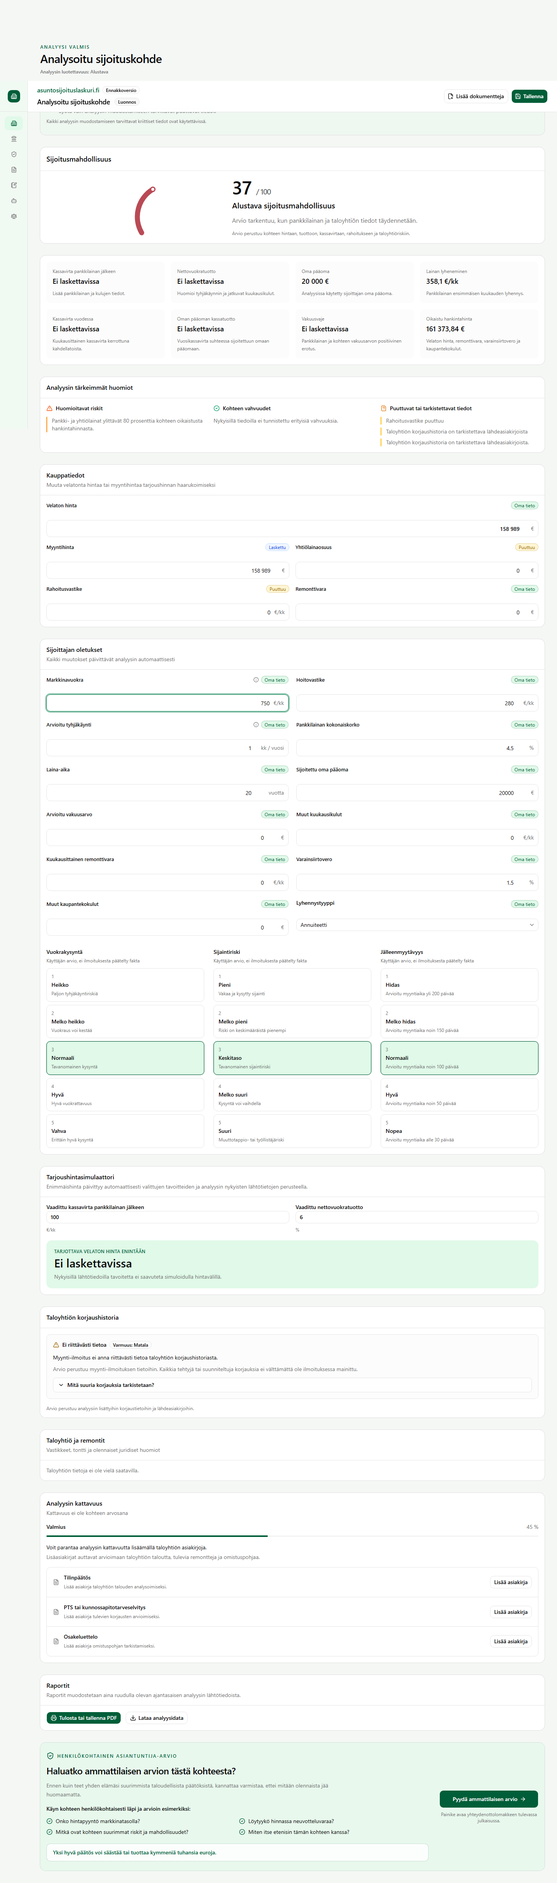
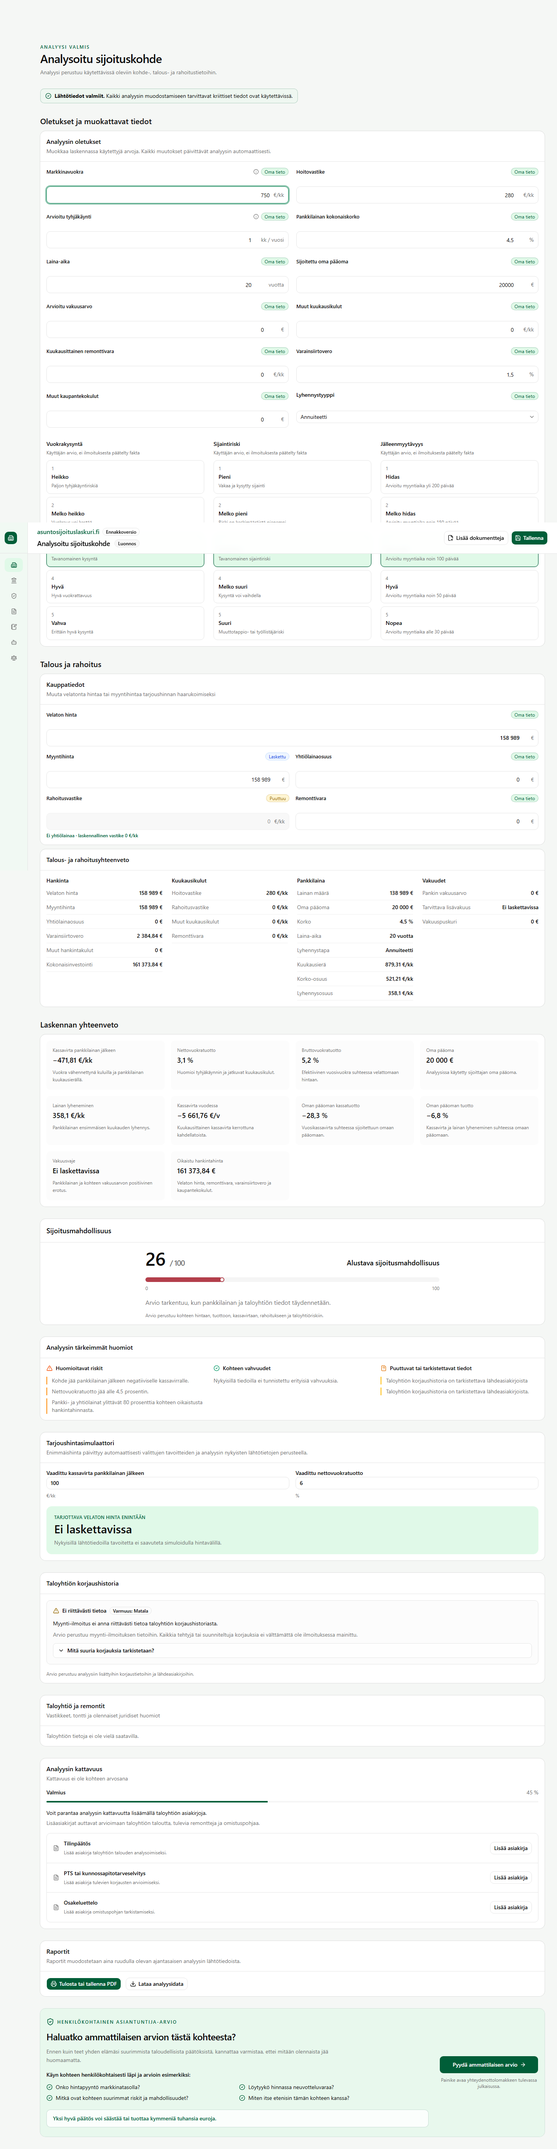
Reorder analysis flow and replace score gauge
- Linked the header logo to the application home page
- Moved assumptions and financial inputs before the investment score
- Added a calculation summary before the final assessment
- Prevented final scores from appearing with missing critical inputs
- Replaced the arc gauge with a compact horizontal score bar
- Removed duplicate property information from the analysis header
- Simplified the completed input status presentation
- Corrected preliminary and completed analysis headings
- Added responsive and regression tests for the revised flow

diff --git a/src/components/property/property-workspace.tsx b/src/components/property/property-workspace.tsx
@@ -18,6 +18,7 @@ import { AssumptionsCard, type AssumptionValues } from "./assumptions-card";
 import { DecisionSummaryCard } from "./decision-summary-card";
 import { HousingCompanyCard } from "./details-cards";
 import { ImportSourceReview } from "./import-source-review";
+import { FinancialOverviewCard } from "./financial-overview-card";
 import { InvestmentOverallScore } from "./investment-overall-score";
 import { OfferPriceCard } from "./offer-price-card";
 import { ParserAnalysisSummary } from "./parser-analysis-summary";
@@ -46,8 +47,7 @@ export function PropertyWorkspace({ importedData = {}, title, onRequestEvaluatio
   const presentationData = { ...data, listingTitle: data.listingTitle ?? (title && title !== "Uusi kohde" ? title : undefined) };
   const pageTitle = analysisTitle(presentationData);
   const facts = analysisFacts(presentationData);
-  const reliability = data.analysisReliability === "high" ? "Korkea" : data.analysisReliability === "moderate" ? "Kohtalainen" : "Alustava";
-  const missingCriticalFields = missingCriticalAnalysisFields({ debtFreePrice: purchase.debtFreePrice, maintenanceFeeMonthly: assumptions.maintenanceFeeMonthly, monthlyRent: assumptions.monthlyRent, annualInterestRate: assumptions.annualInterestRate, loanTermYears: assumptions.loanTermYears, vacancyMonths: assumptions.vacancyMonths, companyLoanShare: purchase.companyLoanShare, financingFeeKnown: effectiveFinancingFee !== undefined });
+  const missingCriticalFields = missingCriticalAnalysisFields({ debtFreePrice: purchase.debtFreePrice, maintenanceFeeMonthly: assumptions.maintenanceFeeMonthly, monthlyRent: assumptions.monthlyRent, annualInterestRate: assumptions.annualInterestRate, loanTermYears: assumptions.loanTermYears, vacancyMonths: assumptions.vacancyMonths, companyLoanShare: purchase.companyLoanShare, companyLoanKnown: statuses.companyLoanShare !== "missing", financingFeeKnown: effectiveFinancingFee !== undefined, bankLoanAmount, repaymentType: assumptions.repaymentType });
   const analysisReady = missingCriticalFields.length === 0;
 
   function updatePurchase(key: PurchaseFieldKey, value: number) { setPurchase((current) => ["debtFreePrice", "salePrice", "companyLoanShare"].includes(key) ? { ...current, ...synchronizePrices(current, key as "debtFreePrice" | "salePrice" | "companyLoanShare", value, lastEditedPriceField) } : { ...current, [key]: value }); if (key === "debtFreePrice" || key === "salePrice") setLastEditedPriceField(key); setStatuses((current) => ({ ...current, [key]: "user", ...(key === "debtFreePrice" ? { salePrice: "derived" as const } : key === "salePrice" ? { debtFreePrice: "derived" as const } : key === "companyLoanShare" ? { [lastEditedPriceField === "debtFreePrice" ? "salePrice" : "debtFreePrice"]: "derived" as const } : {}) })); }
@@ -56,13 +56,12 @@ export function PropertyWorkspace({ importedData = {}, title, onRequestEvaluatio
   function updateImportedField(field: NormalizedFieldKey, value: number | string | undefined) { setData((current) => { const next = { ...current }; if (value === undefined) delete next[field]; else next[field] = value; return next; }); if (["debtFreePrice", "salePrice", "companyLoanShare", "financingFeeMonthly"].includes(field)) setPurchase((current) => ({ ...current, [field]: typeof value === "number" ? value : 0 })); if (field === "maintenanceFeeMonthly" && typeof value === "number") updateAssumption("maintenanceFeeMonthly", value); if (field === "currentRentMonthly" && typeof value === "number") updateAssumption("monthlyRent", value); }
 
   return <TooltipProvider><div className="min-h-screen"><WorkspaceSidebar /><div className="min-w-0 min-[1100px]:pl-18 min-[1600px]:pl-60"><WorkspaceHeader title={pageTitle} location={typeof data.city === "string" ? data.city : ""} /><main className="mx-auto w-full max-w-[1500px] min-w-0 p-4 md:p-6 lg:p-8"><div className="min-w-0 space-y-8">
-    <header><p className="text-xs font-semibold uppercase tracking-[0.16em] text-success">{analysisReady ? "Analyysi valmis" : "Analyysin lähtötiedot"}</p><h1 className="mt-1 break-words text-2xl font-semibold tracking-tight sm:text-3xl">{pageTitle}</h1>{facts.length ? <p className="mt-2 text-sm text-muted-foreground">{facts.join(" · ")}</p> : null}<p className="mt-2 text-xs font-medium text-muted-foreground">Analyysin luotettavuus: {reliability}</p></header>
+    <header><p className="text-xs font-semibold uppercase tracking-[0.16em] text-success">{analysisReady ? "Analyysi valmis" : "Analyysin lähtötiedot"}</p><h1 className="mt-1 break-words text-2xl font-semibold tracking-tight sm:text-3xl">{analysisReady ? "Analysoitu sijoituskohde" : "Täydennä sijoituskohteen analyysi"}</h1>{pageTitle !== "Analysoitu sijoituskohde" ? <p className="mt-2 font-medium">{pageTitle}</p> : null}{facts.length ? <p className="mt-1 text-sm text-muted-foreground">{facts.join(" · ")}</p> : null}<p className="mt-2 text-sm text-muted-foreground">{analysisReady ? "Analyysi perustuu käytettävissä oleviin kohde-, talous- ja rahoitustietoihin." : "Analyysi on alustava, kunnes kaikki kriittiset tiedot ovat käytettävissä."}</p></header>
     <ParserAnalysisSummary result={data.importReview} missingFields={missingCriticalFields} compact={analysisReady} />
     {analysisReady && analysisUpdating ? <p role="status" className="text-sm font-medium text-primary">Päivitetään analyysiä…</p> : null}
-    {analysisReady ? <><InvestmentOverallScore {...overallScore} /><KeyMetrics analysis={overallScore} /><AnalysisHighlights rating={overallScore} /></> : null}
-    <section id="talous" className="scroll-mt-24 space-y-8"><PurchaseCard values={purchase} statuses={statuses} onChange={updatePurchase} /><AssumptionsCard values={assumptions} onChange={updateAssumption} onUpdating={setAnalysisUpdating} /></section>
-    {analysisReady ? <><OfferPriceCard input={scoreSource} /><DecisionSummaryCard repairHistory={repairHistory} /><section id="kohde" className="min-w-0 scroll-mt-24"><HousingCompanyCard importedData={data} /></section><AnalysisCoverageCard documentKinds={data.documentKinds} onDocumentAdded={addDocument} /></> : null}
-    {data.importReview ? <section id="dokumentit" className="scroll-mt-24"><h2 className="mb-3 text-lg font-semibold">Analyysin lähtötiedot</h2><ImportSourceReview result={data.importReview} onChange={updateImportedField} /></section> : null}
-    {analysisReady ? <><ReportsCard input={scoreSource} analysis={overallScore} /><ProfessionalEvaluationCard onRequestEvaluation={onRequestEvaluation} /></> : null}
+    <section aria-labelledby="assumptions-heading" className="space-y-3"><h2 id="assumptions-heading" className="text-xl font-semibold">Oletukset ja muokattavat tiedot</h2><AssumptionsCard values={assumptions} onChange={updateAssumption} onUpdating={setAnalysisUpdating} /></section>
+    <section id="talous" aria-labelledby="financial-heading" className="scroll-mt-24 space-y-3"><h2 id="financial-heading" className="text-xl font-semibold">Talous ja rahoitus</h2><PurchaseCard values={purchase} statuses={statuses} onChange={updatePurchase} />{analysisReady ? <FinancialOverviewCard purchase={purchase} assumptions={assumptions} analysis={overallScore} /> : null}</section>
+    {analysisReady ? <><section aria-labelledby="calculation-heading" className="space-y-3"><h2 id="calculation-heading" className="text-xl font-semibold">Laskennan yhteenveto</h2><KeyMetrics analysis={overallScore} /></section><InvestmentOverallScore {...overallScore} /><section id="riskit" className="scroll-mt-24"><AnalysisHighlights rating={overallScore} /></section><OfferPriceCard input={scoreSource} /><DecisionSummaryCard repairHistory={repairHistory} /><section id="kohde" className="min-w-0 scroll-mt-24"><HousingCompanyCard importedData={data} /></section><AnalysisCoverageCard documentKinds={data.documentKinds} onDocumentAdded={addDocument} /><ReportsCard input={scoreSource} analysis={overallScore} /><ProfessionalEvaluationCard onRequestEvaluation={onRequestEvaluation} /></> : null}
+    {data.importReview ? <section id="dokumentit" className="scroll-mt-24"><h2 className="mb-3 text-lg font-semibold">Analyysin lähtötiedot ja lähteet</h2><ImportSourceReview result={data.importReview} onChange={updateImportedField} /></section> : null}
   </div></main></div></div></TooltipProvider>;
 }

diff --git a/src/components/property/investment-overall-score.tsx b/src/components/property/investment-overall-score.tsx
@@ -1,19 +1,22 @@
 import { Card, CardContent, CardHeader, CardTitle } from "@/components/ui/card";
-import { clampInvestmentScore, gaugeArcPath, gaugePoint, getInvestmentRating, type InvestmentOverallScoreData } from "@/core/analysis/investment-overall-score";
+import { clampInvestmentScore, getInvestmentRating, scoreMarkerPosition, type InvestmentOverallScoreData } from "@/core/analysis/investment-overall-score";
 
-export type InvestmentOverallScoreProps = InvestmentOverallScoreData;
-function scoreColor(score: number) { return score <= 44 ? "#b94a55" : score <= 59 ? "#ce7137" : score <= 69 ? "#c49b2f" : score <= 84 ? "#75a968" : "#28765a"; }
+export type InvestmentOverallScoreProps = Omit<InvestmentOverallScoreData, "score"> & { score?: number | null };
 
-export function InvestmentOverallScore({ score: rawScore, label, summary, preliminary }: InvestmentOverallScoreProps) {
+export function InvestmentOpportunityScore({ score: rawScore, label, summary, preliminary }: InvestmentOverallScoreProps) {
+  const scoreMissing = rawScore === null || rawScore === undefined || !Number.isFinite(rawScore);
   const score = Math.round(clampInvestmentScore(rawScore));
   const rating = getInvestmentRating(score);
   const resolvedLabel = preliminary ? "Alustava sijoitusmahdollisuus" : label ?? rating.label;
-  const color = scoreColor(score);
-  const marker = gaugePoint(score, 76, 110, 94);
+  const ariaLabel = scoreMissing ? "Sijoitusmahdollisuuden arvio ei ole vielä valmis." : `Sijoitusmahdollisuus ${score} pistettä sadasta. ${resolvedLabel}.`;
   return <Card id="sijoitusmahdollisuus" className="min-w-0 scroll-mt-24"><CardHeader className="border-b"><CardTitle className="text-lg">Sijoitusmahdollisuus</CardTitle></CardHeader><CardContent>
-    <div className="mx-auto grid w-full max-w-4xl items-center gap-4 md:grid-cols-[minmax(200px,260px)_minmax(0,1fr)] md:gap-8" role="img" aria-label={`Sijoitusmahdollisuus ${score} pistettä sadasta. ${resolvedLabel}.`}>
-      <svg className="mx-auto block h-auto w-full max-w-[240px]" viewBox="0 0 220 142" aria-hidden="true"><path d={gaugeArcPath(0, 100, 76, 110, 94)} fill="none" stroke="hsl(var(--muted))" strokeWidth="12" strokeLinecap="round" />{score > 0 ? <path d={gaugeArcPath(0, score, 76, 110, 94)} fill="none" stroke={color} strokeWidth="12" strokeLinecap="round" className="transition-all duration-500 ease-out" /> : null}<circle cx={marker.x} cy={marker.y} r="5" fill="white" stroke={color} strokeWidth="3" className="transition-all duration-500 ease-out" /></svg>
-      <div className="min-w-0 text-center md:text-left"><p className="text-4xl font-semibold tracking-tight sm:text-5xl">{score} <span className="text-xl font-medium text-muted-foreground">/ 100</span></p><p className="mt-2 text-xl font-semibold">{resolvedLabel}</p><p className="mt-3 max-w-xl text-sm leading-relaxed text-muted-foreground sm:text-base">{preliminary ? "Arvio tarkentuu, kun pankkilainan ja taloyhtiön tiedot täydennetään." : summary ?? rating.summary}</p><p className="mt-3 text-xs text-muted-foreground">Arvio perustuu kohteen hintaan, tuottoon, kassavirtaan, rahoitukseen ja taloyhtiöriskiin.</p></div>
+    <div className="mx-auto w-full max-w-[760px] min-w-0" aria-label={ariaLabel}>
+      {scoreMissing ? <><p className="text-xl font-semibold">Arvio kesken</p><p className="mt-2 text-sm text-muted-foreground">Arvio muodostuu lähtötietojen täydentämisen jälkeen.</p></> : <div className="flex flex-col gap-2 sm:flex-row sm:items-end sm:justify-between"><p className="text-4xl font-semibold tracking-tight sm:text-5xl">{score} <span className="text-xl font-medium text-muted-foreground">/ 100</span></p><p className="text-lg font-semibold sm:text-right">{resolvedLabel}</p></div>}
+      <div className="relative mt-6 h-3 w-full rounded-full bg-muted" role="progressbar" aria-valuemin={0} aria-valuemax={100} aria-valuenow={scoreMissing ? undefined : score} aria-label="Sijoitusmahdollisuuden pistemäärä"><div data-score-progress className="h-full rounded-full transition-[width] duration-500 ease-out" style={{ width: scoreMissing ? "0%" : `${score}%`, backgroundColor: scoreMissing ? "transparent" : rating.color }} />{scoreMissing ? null : <span data-score-marker className="absolute top-1/2 size-3 -translate-x-1/2 -translate-y-1/2 rounded-full border-2 bg-background shadow-sm transition-[left] duration-500 ease-out" style={{ left: scoreMarkerPosition(score), borderColor: rating.color }} />}</div>
+      <div className="mt-2 flex justify-between text-xs text-muted-foreground"><span>0</span><span>100</span></div>
+      {!scoreMissing ? <><p className="mt-4 max-w-2xl text-sm leading-relaxed text-muted-foreground sm:text-base">{preliminary ? "Arvio tarkentuu, kun pankkilainan ja taloyhtiön tiedot täydennetään." : summary ?? rating.summary}</p><p className="mt-3 text-xs text-muted-foreground">Arvio perustuu kohteen hintaan, tuottoon, kassavirtaan, rahoitukseen ja taloyhtiöriskiin.</p></> : null}
     </div>
   </CardContent></Card>;
 }
+
+export const InvestmentOverallScore = InvestmentOpportunityScore;

diff --git a/tests/investment-overall-score.test.ts b/tests/investment-overall-score.test.ts
@@ -2,12 +2,11 @@ import assert from "node:assert/strict";
 import { readFile } from "node:fs/promises";
 import test from "node:test";
 import { adaptInvestmentScore } from "../src/core/analysis/investment-score-adapter.ts";
-import { clampInvestmentScore, gaugePoint, getInvestmentRating } from "../src/core/analysis/investment-overall-score.ts";
+import { clampInvestmentScore, getInvestmentRating, scoreMarkerPosition } from "../src/core/analysis/investment-overall-score.ts";
 
-test("pisterajat mapitetaan arvosanoihin", () => { for (const [score, grade] of [[100, "A+"], [90, "A+"], [89, "A"], [80, "A"], [79, "B"], [70, "B"], [69, "C"], [60, "C"], [59, "D"], [45, "D"], [44, "E"], [0, "E"]] as const) assert.equal(getInvestmentRating(score).grade, grade); });
+test("pisterajat mapitetaan arvosanoihin ja keskitettyihin väreihin", () => { for (const [score, grade] of [[100, "A+"], [90, "A+"], [89, "A"], [80, "A"], [79, "B"], [70, "B"], [69, "C"], [60, "C"], [59, "D"], [45, "D"], [44, "E"], [0, "E"]] as const) { const rating = getInvestmentRating(score); assert.equal(rating.grade, grade); assert.match(rating.color, /^#[0-9a-f]{6}$/i); } });
 test("virheelliset pisteet clampataan turvallisesti", () => { assert.equal(clampInvestmentScore(-10), 0); assert.equal(clampInvestmentScore(125), 100); assert.equal(clampInvestmentScore(Number.NaN), 0); assert.equal(clampInvestmentScore(undefined), 0); });
-test("markeri liikkuu jatkuvasti kaarella ja pysyy viewBoxissa", () => { const points = [gaugePoint(0), gaugePoint(50), gaugePoint(100)]; assert.equal(new Set(points.map(({ x, y }) => `${x},${y}`)).size, 3); for (const point of points) { assert.ok(point.x >= 0 && point.x <= 220); assert.ok(point.y >= 0 && point.y <= 162); } });
+test("marker pysyy palkin sisällä edge caseissa", () => { assert.equal(scoreMarkerPosition(0), "clamp(6px, 0%, calc(100% - 6px))"); assert.equal(scoreMarkerPosition(1), "clamp(6px, 1%, calc(100% - 6px))"); assert.equal(scoreMarkerPosition(50), "clamp(6px, 50%, calc(100% - 6px))"); assert.equal(scoreMarkerPosition(99), "clamp(6px, 99%, calc(100% - 6px))"); assert.equal(scoreMarkerPosition(100), "clamp(6px, 100%, calc(100% - 6px))"); });
 test("adapteri käyttää nykyisiä analyysitietoja ja tuottaa neljä osa-arviota", () => { const strong = adaptInvestmentScore({ debtFreePrice: 100_000, currentRentMonthly: 750, maintenanceFeeMonthly: 200, financingFeeMonthly: 0, companyLoanShare: 0 }); const weak = adaptInvestmentScore({ debtFreePrice: 200_000, currentRentMonthly: 500, maintenanceFeeMonthly: 350, financingFeeMonthly: 200, companyLoanShare: 120_000 }); assert.ok(strong.score > weak.score); assert.deepEqual(Object.keys(strong.subScores ?? {}), ["yield", "cashFlow", "housingCompanyRisk", "financing"]); });
 test("sijoitusmahdollisuuden sanalliset luokat vastaavat pisterajoja", () => { assert.equal(getInvestmentRating(95).label, "Erinomainen sijoitusmahdollisuus"); assert.equal(getInvestmentRating(85).label, "Erittäin hyvä sijoitusmahdollisuus"); assert.equal(getInvestmentRating(75).label, "Hyvä sijoitusmahdollisuus"); assert.equal(getInvestmentRating(65).label, "Kohtalainen sijoitusmahdollisuus"); assert.equal(getInvestmentRating(55).label, "Heikko sijoitusmahdollisuus"); assert.equal(getInvestmentRating(35).label, "Ei suositeltava sijoitus"); });
-test("kompakti mittari käyttää yhtä progressiivista kaarta", async () => { const component = await readFile(new URL("../src/components/property/investment-overall-score.tsx", import.meta.url), "utf8"); assert.match(component, /aria-label=.*pistettä sadasta/); assert.match(component, /viewBox="0 0 220 142"/); assert.match(component, /max-w-\[240px\]/); assert.match(component, /gaugeArcPath\(0, 100/); assert.match(component, /gaugeArcPath\(0, score/); assert.doesNotMatch(component, /zones|Arvosana|PropertyOS|Alma Risk Rating/); });
-test("vanha riskiesikatselu on poistettu analyysinäkymästä", async () => { const workspace = await readFile(new URL("../src/components/property/property-workspace.tsx", import.meta.url), "utf8"); assert.doesNotMatch(workspace, /RiskPreviewCard|risk-preview-card/); assert.match(workspace, /adaptInvestmentScore/); assert.match(workspace, /<InvestmentOverallScore \{\.\.\.overallScore\}/); });
+test("komponentti renderöi vaakapalkin, markerin ja null-tilan ilman kaarimittaria", async () => { const component = await readFile(new URL("../src/components/property/investment-overall-score.tsx", import.meta.url), "utf8"); assert.match(component, /role="progressbar"/); assert.match(component, /data-score-progress/); assert.match(component, /data-score-marker/); assert.match(component, /Arvio muodostuu lähtötietojen täydentämisen jälkeen/); assert.match(component, /scoreMissing/); assert.doesNotMatch(component, /<svg|gaugeArcPath|gaugePoint|viewBox/); });

diff --git a/src/components/property/parser-analysis-summary.tsx b/src/components/property/parser-analysis-summary.tsx
@@ -12,8 +12,6 @@ function reliabilityStars(result?: ListingParseResult): string {
 
 export function ParserAnalysisSummary({ result, missingFields, compact = false }: { result?: ListingParseResult; missingFields: string[]; compact?: boolean }) {
   const found = result ? new Set(result.findings.filter((finding) => finding.validationResult === "accepted" && !finding.conflicts.length).map((finding) => finding.field)).size : 0;
-  const complete = missingFields.length === 0;
-  const stars = reliabilityStars(result);
-  const title = result ? "Analysoimme ilmoituksen onnistuneesti" : complete ? "Analyysin lähtötiedot ovat valmiit" : "Täydennä analyysin lähtötiedot";
-  return <Card className="border-success/25 bg-success-soft/30"><CardContent className={compact ? "py-3" : "space-y-5 py-2"}><div className="flex gap-3"><CheckCircle2 className="mt-0.5 size-5 shrink-0 text-success" /><div className="min-w-0"><p className="font-semibold">{title}</p>{result ? <p className="mt-1 text-sm text-muted-foreground">Löysimme <strong className="text-foreground">{found} / {criticalFields.length}</strong> analyysissä tarvittavaa tietoa automaattisesti.</p> : <p className="mt-1 text-sm text-muted-foreground">{complete ? "Kaikki analyysin muodostamiseen tarvittavat kriittiset tiedot ovat käytettävissä." : "Syötä vain analyysin muodostamiseen tarvittavat puuttuvat tiedot."}</p>}{result ? <p className="mt-2 text-sm"><span className="text-muted-foreground">Parserin luotettavuus:</span> <span aria-label={`${stars.replaceAll("☆", "").length} tähteä viidestä`} className="tracking-wider text-success">{stars}</span></p> : null}</div></div>{!compact && !complete ? <div className="rounded-lg border bg-background/70 p-4"><p className="text-sm font-medium">Täydennä vielä nämä kriittiset tiedot:</p><ul className="mt-2 list-inside list-disc space-y-1 text-sm text-muted-foreground">{missingFields.map((field) => <li key={field}>{field}</li>)}</ul><p className="mt-3 text-sm text-muted-foreground">Kun tiedot ovat valmiit, muodostamme sijoitusanalyysin automaattisesti.</p></div> : null}</CardContent></Card>;
+  if (compact) return <div role="status" className="inline-flex max-w-full items-start gap-2 rounded-lg border border-success/25 bg-success-soft/30 px-3 py-2 text-sm"><CheckCircle2 className="mt-0.5 size-4 shrink-0 text-success" /><span><strong>Lähtötiedot valmiit.</strong> Kaikki analyysin muodostamiseen tarvittavat kriittiset tiedot ovat käytettävissä.</span></div>;
+  return <Card className="border-success/25 bg-success-soft/30"><CardContent className="space-y-5 py-2"><div className="flex gap-3"><CheckCircle2 className="mt-0.5 size-5 shrink-0 text-success" /><div className="min-w-0"><p className="font-semibold">Täydennä vielä analyysin lähtötiedot</p><p className="mt-1 text-sm text-muted-foreground">Löysimme suurimman osan kohteen tiedoista automaattisesti. Täydennä vielä alla olevat tiedot, jotta sijoitusanalyysi voidaan muodostaa luotettavasti.</p>{result ? <><p className="mt-3 text-sm">Löydetty automaattisesti: <strong>{found} / {criticalFields.length} tietoa</strong></p><p className="mt-1 text-sm"><span className="text-muted-foreground">Parserin luotettavuus:</span> <span aria-label={`${reliabilityStars(result).replaceAll("☆", "").length} tähteä viidestä`} className="tracking-wider text-amber-600">{reliabilityStars(result)}</span></p></> : null}</div></div><div><p className="text-sm font-semibold">Tarvitaan vielä {missingFields.length} kriittistä tietoa:</p><ul className="mt-2 grid gap-2 text-sm text-muted-foreground sm:grid-cols-2">{missingFields.map((field) => <li key={field} className="rounded-md border bg-background/75 px-3 py-2">{field}</li>)}</ul></div><p className="text-sm font-medium">Lopullinen sijoitusarvio muodostuu, kun kriittiset lähtötiedot on täydennetty.</p></CardContent></Card>;
 }

diff --git a/tests/analysis-header-layout.test.ts b/tests/analysis-header-layout.test.ts
@@ -11,5 +11,6 @@ test("huonejako, rakennustyyppi ja kerros normalisoituvat", () => { assert.equal
 test("huonejako ja rakennustyyppi johdetaan ilmoituksen otsikosta", () => { const result = parseListingText("", "etuovi", [{ field: "listingTitle", value: "3h + k + s, rivitalo Vaasa", label: "otsikko", excerpt: "h1" }]); assert.equal(result.findings.find((item) => item.field === "roomDescription")?.normalizedValue, "3h + k + s"); assert.equal(result.findings.find((item) => item.field === "buildingType")?.normalizedValue, "terraced"); });
 test("tontin omistusmuodot parsitaan automaattisesti", () => { for (const [input, expected] of [["Oma tontti", "owned"], ["Vuokratontti", "leased"], ["Valinnainen vuokratontti", "optional_leasehold"]] as const) assert.equal(parseListingText(`Tontin omistusmuoto: ${input}`).findings[0]?.normalizedValue, expected); });
 test("saatavilla oleva kuntotieto parsitaan", () => { assert.equal(parseListingText("Asunnon kunto: Hyvä").findings.find((item) => item.field === "condition")?.normalizedValue, "Hyvä"); });
-test("sivujärjestys alkaa parseriyhteenvedosta ja lähteet ovat lopussa", async () => { const workspace = await readFile(new URL("../src/components/property/property-workspace.tsx", import.meta.url), "utf8"); const parser = workspace.indexOf("<ParserAnalysisSummary"); const score = workspace.indexOf("<InvestmentOverallScore"); const sources = workspace.indexOf("<ImportSourceReview"); assert.ok(parser > 0 && score > parser && sources > score); assert.doesNotMatch(workspace, /PropertyDetailsCard|>Kohteen tiedot</); for (const value of ["AnalysisHighlights", "KeyMetrics", "Analyysin lähtötiedot", "analysisReady ?"]) assert.ok(workspace.includes(value)); });
+test("analyysi etenee lähtötiedoista oletusten ja talouden kautta scoreen", async () => { const workspace = await readFile(new URL("../src/components/property/property-workspace.tsx", import.meta.url), "utf8"); const parser = workspace.indexOf("<ParserAnalysisSummary"); const assumptions = workspace.indexOf("<AssumptionsCard"); const finances = workspace.indexOf("<PurchaseCard"); const calculations = workspace.indexOf("<KeyMetrics"); const score = workspace.indexOf("<InvestmentOverallScore"); const highlights = workspace.indexOf("<AnalysisHighlights"); const sources = workspace.indexOf("<ImportSourceReview"); assert.ok(parser > 0 && assumptions > parser && finances > assumptions && calculations > finances && score > calculations && highlights > score && sources > highlights); assert.doesNotMatch(workspace, /PropertyDetailsCard|>Kohteen tiedot</); for (const value of ["Talous ja rahoitus", "Laskennan yhteenveto", "Analyysin lähtötiedot ja lähteet", "analysisReady ?"]) assert.ok(workspace.includes(value)); });
+test("työtilan brändit ovat saavutettavia etusivulinkkejä", async () => { for (const file of ["workspace-sidebar.tsx", "workspace-header.tsx"]) { const source = await readFile(new URL(`../src/components/property/${file}`, import.meta.url), "utf8"); assert.match(source, /import Link from "next\/link"/); assert.match(source, /<Link href="\/" aria-label="Siirry etusivulle"/); assert.match(source, /cursor-pointer/); assert.match(source, /focus-visible:ring/); } });
 test("puuttuvat kentät ja suuret tonttilomakkeet eivät renderöidy", async () => { const details = await readFile(new URL("../src/components/property/details-cards.tsx", import.meta.url), "utf8"); assert.doesNotMatch(details, /SelectField|SelectTrigger|placeholder="Ei tiedossa"/); assert.match(details, /if \(present\(importedData\.landOwnership\)\)/); assert.match(details, /if \(present\(importedData\.condition\)\)/); });

diff --git a/src/components/property/financial-overview-card.tsx b/src/components/property/financial-overview-card.tsx
@@ -1,0 +1,19 @@
+import { Card, CardContent, CardHeader, CardTitle } from "@/components/ui/card";
+import type { InvestmentAnalysisResult, RepaymentType } from "@/core/calculations/investment-analysis";
+import { formatFinnishNumber } from "@/core/parser/normalization";
+import type { PurchaseFieldKey } from "@/data/property-demo";
+import type { AssumptionValues } from "./assumptions-card";
+
+const money = (value: number | undefined, suffix = "€") => value === undefined ? "Ei laskettavissa" : `${formatFinnishNumber(value)} ${suffix}`;
+const repaymentLabels: Record<RepaymentType, string> = { annuity: "Annuiteetti", equal_principal: "Tasalyhennys", interest_only: "Vain korko", bullet: "Kertalyhenteinen laina" };
+
+export function FinancialOverviewCard({ purchase, assumptions, analysis }: { purchase: Record<PurchaseFieldKey, number>; assumptions: AssumptionValues; analysis: InvestmentAnalysisResult }) {
+  const collateralBuffer = Math.max(0, assumptions.collateralValue - (analysis.bankLoanAmount ?? 0));
+  const groups = [
+    { title: "Hankinta", rows: [["Velaton hinta", money(purchase.debtFreePrice)], ["Myyntihinta", money(purchase.salePrice)], ["Yhtiölainaosuus", money(purchase.companyLoanShare)], ["Varainsiirtovero", money(analysis.transferTax)], ["Muut hankintakulut", money(assumptions.transactionCosts)], ["Kokonaisinvestointi", money(analysis.adjustedAcquisitionPrice)]] },
+    { title: "Kuukausikulut", rows: [["Hoitovastike", money(assumptions.maintenanceFeeMonthly, "€/kk")], ["Rahoitusvastike", money(purchase.financingFeeMonthly, "€/kk")], ["Muut kuukausikulut", money(assumptions.otherCostsMonthly, "€/kk")], ["Remonttivara", money(assumptions.maintenanceReserveMonthly, "€/kk")]] },
+    { title: "Pankkilaina", rows: [["Lainan määrä", money(analysis.bankLoanAmount)], ["Oma pääoma", money(assumptions.equity)], ["Korko", `${formatFinnishNumber(assumptions.annualInterestRate, 1)} %`], ["Laina-aika", `${formatFinnishNumber(assumptions.loanTermYears)} vuotta`], ["Lyhennystapa", repaymentLabels[assumptions.repaymentType]], ["Kuukausierä", money(analysis.monthlyBankLoanPayment, "€/kk")], ["Korko-osuus", money(analysis.monthlyBankLoanInterest, "€/kk")], ["Lyhennysosuus", money(analysis.monthlyBankLoanPrincipal, "€/kk")]] },
+    { title: "Vakuudet", rows: [["Pankin vakuusarvo", money(assumptions.collateralValue)], ["Tarvittava lisävakuus", money(analysis.collateralShortfall)], [analysis.collateralShortfall ? "Vakuusvaje" : "Vakuuspuskuri", money(analysis.collateralShortfall || collateralBuffer)]] },
+  ];
+  return <Card><CardHeader className="border-b"><CardTitle>Talous- ja rahoitusyhteenveto</CardTitle></CardHeader><CardContent><div className="grid gap-6 md:grid-cols-2 xl:grid-cols-4">{groups.map((group) => <section key={group.title}><h3 className="font-semibold">{group.title}</h3><dl className="mt-3 space-y-2">{group.rows.map(([label, value]) => <div key={label} className="flex items-start justify-between gap-3 border-b border-border/60 pb-2 text-sm"><dt className="text-muted-foreground">{label}</dt><dd className="text-right font-medium">{value}</dd></div>)}</dl></section>)}</div></CardContent></Card>;
+}

diff --git a/src/components/property/workspace-sidebar.tsx b/src/components/property/workspace-sidebar.tsx
@@ -1,4 +1,5 @@
 import { Bot, Building2, FileText, Landmark, NotebookPen, Scale, ShieldCheck } from "lucide-react";
+import Link from "next/link";
 import { Badge } from "@/components/ui/badge";
 import { brandName } from "@/core/i18n/display-values";
 
@@ -10,7 +11,7 @@ const links = [
 export function WorkspaceSidebar() {
   return (
     <aside className="fixed inset-y-0 left-0 z-40 hidden w-18 min-w-0 border-r bg-sidebar min-[1100px]:flex min-[1100px]:flex-col min-[1600px]:w-60">
-      <div className="flex h-20 min-w-0 items-center justify-center gap-2 border-b px-3 min-[1600px]:justify-start min-[1600px]:px-5"><div className="grid size-8 shrink-0 place-items-center rounded-lg bg-success text-white" title={brandName}><Building2 className="size-4" /></div><span className="hidden min-w-0 truncate text-sm font-semibold min-[1600px]:inline">{brandName}</span><Badge variant="outline" className="ml-auto hidden shrink-0 px-1.5 text-[10px] min-[1600px]:inline-flex">Ennakkoversio</Badge></div>
+      <div className="flex h-20 min-w-0 items-center border-b px-3 min-[1600px]:px-5"><Link href="/" aria-label="Siirry etusivulle" onClick={() => window.dispatchEvent(new Event("property-home"))} className="flex min-w-0 cursor-pointer items-center justify-center gap-2 rounded-lg outline-none focus-visible:ring-2 focus-visible:ring-success focus-visible:ring-offset-2 min-[1600px]:justify-start"><div className="grid size-8 shrink-0 place-items-center rounded-lg bg-success text-white" title={brandName}><Building2 className="size-4" /></div><span className="hidden min-w-0 truncate text-sm font-semibold min-[1600px]:inline">{brandName}</span></Link><Badge variant="outline" className="ml-auto hidden shrink-0 px-1.5 text-[10px] min-[1600px]:inline-flex">Ennakkoversio</Badge></div>
       <nav aria-label="Työtilan osiot" className="space-y-1 p-3">
         {links.map(([label, id, Icon], index) => <a key={id} href={`#${id}`} title={label} className={`flex items-center justify-center gap-3 rounded-lg px-3 py-2.5 text-sm font-medium transition-colors min-[1600px]:justify-start ${index === 0 ? "bg-success-soft text-success" : "text-muted-foreground hover:bg-muted hover:text-foreground"}`}><Icon className="size-4 shrink-0" /><span className="hidden min-w-0 truncate min-[1600px]:inline">{label}</span></a>)}
       </nav>

diff --git a/tests/analysis-entry-flow.test.ts b/tests/analysis-entry-flow.test.ts
@@ -3,20 +3,23 @@ import assert from "node:assert/strict";
 import { readFile } from "node:fs/promises";
 import { missingCriticalAnalysisFields } from "../src/core/analysis/analysis-entry.ts";
 
-const complete = { debtFreePrice: 120_000, maintenanceFeeMonthly: 280, monthlyRent: 850, annualInterestRate: 4.5, loanTermYears: 20, vacancyMonths: 1, companyLoanShare: 0, financingFeeKnown: true };
+const complete = { debtFreePrice: 120_000, maintenanceFeeMonthly: 280, monthlyRent: 850, annualInterestRate: 4.5, loanTermYears: 20, vacancyMonths: 1, companyLoanShare: 0, companyLoanKnown: true, financingFeeKnown: true, bankLoanAmount: 80_000, repaymentType: "annuity" };
 
 test("puuttuvien kriittisten tietojen lista muodostuu vain unknown-arvoista", () => {
   assert.deepEqual(missingCriticalAnalysisFields(complete), []);
   assert.deepEqual(missingCriticalAnalysisFields({ ...complete, monthlyRent: undefined, annualInterestRate: undefined }), ["Kuukausivuokra", "Pankkilainan korko"]);
   assert.deepEqual(missingCriticalAnalysisFields({ ...complete, companyLoanShare: 20_000, financingFeeKnown: false }), ["Rahoitusvastike"]);
+  assert.deepEqual(missingCriticalAnalysisFields({ ...complete, companyLoanKnown: false }), ["Yhtiölainaosuus tai tieto, ettei sitä ole"]);
+  assert.deepEqual(missingCriticalAnalysisFields({ ...complete, bankLoanAmount: undefined, repaymentType: undefined }), ["Pankkilainan määrä", "Lyhennystapa"]);
 });
 
 test("parseriyhteenveto edeltää scorea ja score on readiness-ehdon takana", async () => {
   const workspace = await readFile(new URL("../src/components/property/property-workspace.tsx", import.meta.url), "utf8");
   const summary = await readFile(new URL("../src/components/property/parser-analysis-summary.tsx", import.meta.url), "utf8");
   assert.ok(workspace.indexOf("<ParserAnalysisSummary") < workspace.indexOf("<InvestmentOverallScore"));
-  assert.match(workspace, /analysisReady \? <><InvestmentOverallScore/);
+  assert.match(workspace, /<InvestmentOverallScore \{\.\.\.overallScore\}/);
   assert.match(summary, /missingFields\.map/);
   assert.ok(summary.includes("Löysimme") && summary.includes("found") && summary.includes("criticalFields.length"));
   assert.match(summary, /Parserin luotettavuus/);
+  assert.match(summary, /Lähtötiedot valmiit/);
 });

diff --git a/src/core/analysis/investment-overall-score.ts b/src/core/analysis/investment-overall-score.ts
@@ -4,7 +4,10 @@ export type RatingLevel = {
   grade: InvestmentGrade;
   label: string;
   summary: string;
+  color: string;
 };
+
+const ratingColors: Record<InvestmentGrade, string> = { "A+": "#166534", A: "#27845f", B: "#73a66a", C: "#a48f24", D: "#c9672f", E: "#b33f4b" };
 
 export type RatingSubScore = {
   score: number;
@@ -48,19 +51,9 @@ export function getInvestmentRating(score: number | null | undefined): RatingLev
   const value = clampInvestmentScore(score);
   const grade: InvestmentGrade = value >= 90 ? "A+" : value >= 80 ? "A" : value >= 70 ? "B" : value >= 60 ? "C" : value >= 45 ? "D" : "E";
   const labels: Record<InvestmentGrade, string> = { "A+": "Erinomainen sijoitusmahdollisuus", A: "Erittäin hyvä sijoitusmahdollisuus", B: "Hyvä sijoitusmahdollisuus", C: "Kohtalainen sijoitusmahdollisuus", D: "Heikko sijoitusmahdollisuus", E: "Ei suositeltava sijoitus" };
-  return { grade, label: labels[grade], summary: summaries[grade] };
+  return { grade, label: labels[grade], summary: summaries[grade], color: ratingColors[grade] };
 }
 
-export type GaugePoint = { x: number; y: number };
-
-export function gaugePoint(score: number | null | undefined, radius = 82, centerX = 110, centerY = 103): GaugePoint {
-  const angle = (150 + clampInvestmentScore(score) * 2.4) * Math.PI / 180;
-  return { x: centerX + radius * Math.cos(angle), y: centerY + radius * Math.sin(angle) };
-}
-
-export function gaugeArcPath(startScore: number, endScore: number, radius = 82, centerX = 110, centerY = 103): string {
-  const start = gaugePoint(startScore, radius, centerX, centerY);
-  const end = gaugePoint(endScore, radius, centerX, centerY);
-  const largeArc = (endScore - startScore) * 2.4 > 180 ? 1 : 0;
-  return `M ${start.x.toFixed(3)} ${start.y.toFixed(3)} A ${radius} ${radius} 0 ${largeArc} 1 ${end.x.toFixed(3)} ${end.y.toFixed(3)}`;
+export function scoreMarkerPosition(score: number | null | undefined): string {
+  return `clamp(6px, ${clampInvestmentScore(score)}%, calc(100% - 6px))`;
 }

diff --git a/src/components/property/assumptions-card.tsx b/src/components/property/assumptions-card.tsx
@@ -19,7 +19,7 @@ function DebouncedRentField({ value, onChange, onUpdating }: { value: number; on
 
 export function AssumptionsCard({ values, onChange, onUpdating }: { values: AssumptionValues; onChange: <K extends keyof AssumptionValues>(key: K, value: AssumptionValues[K]) => void; onUpdating: (value: boolean) => void }) {
   const repaymentLabels: Record<RepaymentType, string> = { annuity: "Annuiteetti", equal_principal: "Tasalyhennys", interest_only: "Vain korko", bullet: "Kertalyhenteinen laina" };
-  return <Card><CardHeader className="border-b"><CardTitle>Sijoittajan oletukset</CardTitle><CardDescription>Kaikki muutokset päivittävät analyysin automaattisesti</CardDescription></CardHeader><CardContent className="space-y-8"><div className="grid min-w-0 grid-cols-1 gap-x-5 gap-y-6 sm:grid-cols-2 min-[1600px]:grid-cols-3">
+  return <Card><CardHeader className="border-b"><CardTitle>Analyysin oletukset</CardTitle><CardDescription>Muokkaa laskennassa käytettyjä arvoja. Kaikki muutokset päivittävät analyysin automaattisesti.</CardDescription></CardHeader><CardContent className="space-y-8"><div className="grid min-w-0 grid-cols-1 gap-x-5 gap-y-6 sm:grid-cols-2 min-[1600px]:grid-cols-3">
     <DebouncedRentField value={values.monthlyRent} onChange={(value) => onChange("monthlyRent", value)} onUpdating={onUpdating} />
     <PropertyField id="maintenance-fee" label="Hoitovastike" status="user" suffix="€/kk" type="number" min={0} value={values.maintenanceFeeMonthly} onChange={(event) => onChange("maintenanceFeeMonthly", Math.max(0, event.currentTarget.valueAsNumber || 0))} />
     <PropertyField id="vacancy-months" label="Arvioitu tyhjäkäynti" status="user" suffix="kk / vuosi" type="number" min={0} max={12} step={1} value={values.vacancyMonths} onChange={(event) => onChange("vacancyMonths", Math.min(12, Math.max(0, Math.round(event.currentTarget.valueAsNumber || 0))))} help={`Vuokrattuna arviolta ${12 - values.vacancyMonths} kk vuodessa.`} />

diff --git a/src/components/property/analysis-summary.tsx b/src/components/property/analysis-summary.tsx
@@ -9,10 +9,12 @@ export function KeyMetrics({ analysis }: { analysis: InvestmentAnalysisResult })
   const metrics = [
     ["Kassavirta pankkilainan jälkeen", money(analysis.cashFlowAfterBankLoan), analysis.cashFlowAfterBankLoan === undefined ? "Lisää pankkilainan ja kulujen tiedot." : "Vuokra vähennettynä kuluilla ja pankkilainan kuukausierällä."],
     ["Nettovuokratuotto", analysis.netRentalYield === undefined ? "Ei laskettavissa" : `${formatFinnishNumber(analysis.netRentalYield, 1)} %`, "Huomioi tyhjäkäynnin ja jatkuvat kuukausikulut."],
+    ["Bruttovuokratuotto", analysis.grossRentalYield === undefined ? "Ei laskettavissa" : `${formatFinnishNumber(analysis.grossRentalYield, 1)} %`, "Efektiivinen vuosivuokra suhteessa velattomaan hintaan."],
     ["Oma pääoma", money(analysis.equity, "€"), "Analyysissa käytetty sijoittajan oma pääoma."],
     ["Lainan lyheneminen", money(analysis.monthlyBankLoanPrincipal), "Pankkilainan ensimmäisen kuukauden lyhennys."],
     ["Kassavirta vuodessa", money(analysis.annualCashFlowAfterBankLoan, "€/v"), "Kuukausittainen kassavirta kerrottuna kahdellatoista."],
     ["Oman pääoman kassatuotto", analysis.cashOnCashReturn === undefined ? "Ei laskettavissa" : `${formatFinnishNumber(analysis.cashOnCashReturn, 1)} %`, "Vuosikassavirta suhteessa sijoitettuun omaan pääomaan."],
+    ["Oman pääoman tuotto", analysis.returnOnEquity === undefined ? "Ei laskettavissa" : `${formatFinnishNumber(analysis.returnOnEquity, 1)} %`, "Kassavirta ja lainan lyheneminen suhteessa omaan pääomaan."],
     ["Vakuusvaje", money(analysis.collateralShortfall, "€"), "Pankkilainan ja kohteen vakuusarvon positiivinen erotus."],
     ["Oikaistu hankintahinta", money(analysis.adjustedAcquisitionPrice, "€"), "Velaton hinta, remonttivara, varainsiirtovero ja kaupantekokulut."],
   ];

diff --git a/src/components/property/workspace-header.tsx b/src/components/property/workspace-header.tsx
@@ -1,4 +1,5 @@
 import { FilePlus2, Save } from "lucide-react";
+import Link from "next/link";
 import { Badge } from "@/components/ui/badge";
 import { Button } from "@/components/ui/button";
 import { brandName } from "@/core/i18n/display-values";
@@ -7,7 +8,7 @@ export function WorkspaceHeader({ title, location }: { title: string; location?:
   return (
     <header className="sticky top-0 z-30 grid min-h-20 grid-cols-1 gap-3 border-b bg-background/95 px-4 py-3 backdrop-blur sm:grid-cols-[minmax(0,1fr)_auto] sm:items-center md:px-6">
       <div className="min-w-0 space-y-1">
-        <div className="flex min-w-0 flex-wrap items-center gap-2 min-[1600px]:hidden"><span className="min-w-0 truncate font-semibold text-success">{brandName}</span><Badge variant="outline" className="shrink-0">Ennakkoversio</Badge></div>
+        <div className="flex min-w-0 flex-wrap items-center gap-2 min-[1600px]:hidden"><Link href="/" aria-label="Siirry etusivulle" onClick={() => window.dispatchEvent(new Event("property-home"))} className="min-w-0 cursor-pointer truncate rounded-sm font-semibold text-success outline-none focus-visible:ring-2 focus-visible:ring-success focus-visible:ring-offset-2">{brandName}</Link><Badge variant="outline" className="shrink-0">Ennakkoversio</Badge></div>
         <div className="flex min-w-0 flex-wrap items-center gap-x-3 gap-y-1">
           <h1 className="min-w-0 max-w-full truncate text-lg font-semibold tracking-tight">{title}</h1>
           <Badge variant="outline" className="shrink-0 bg-muted/70">Luonnos</Badge>
